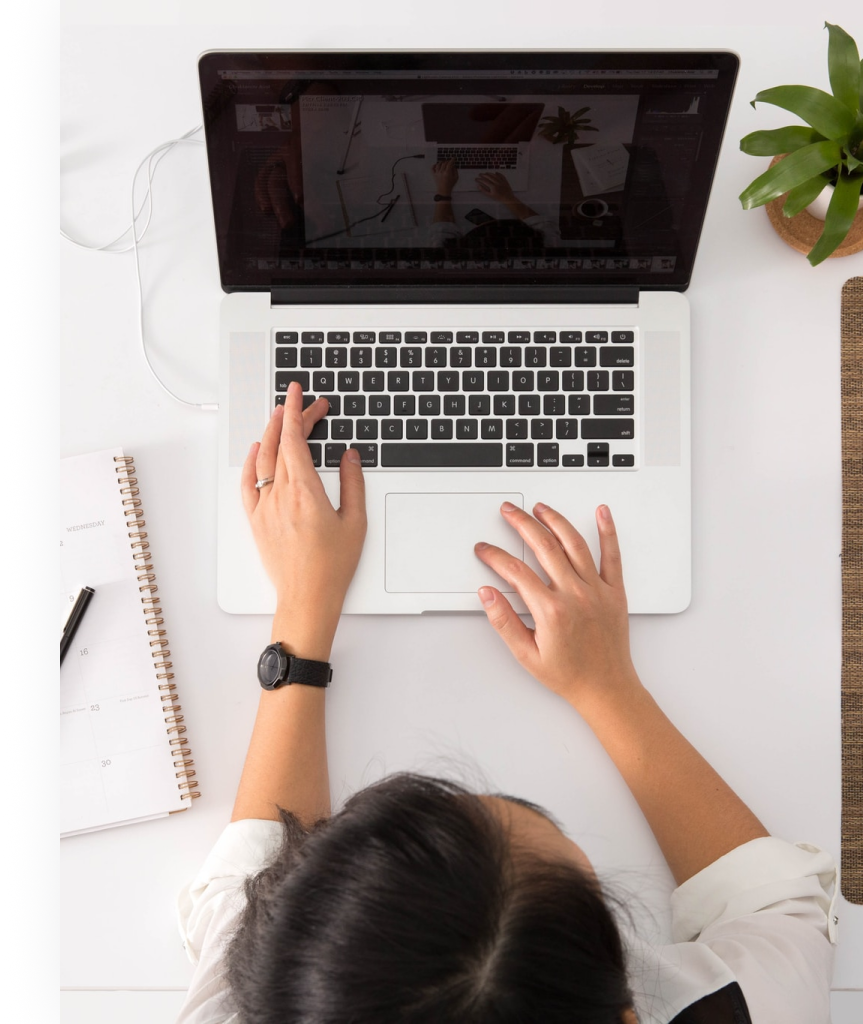
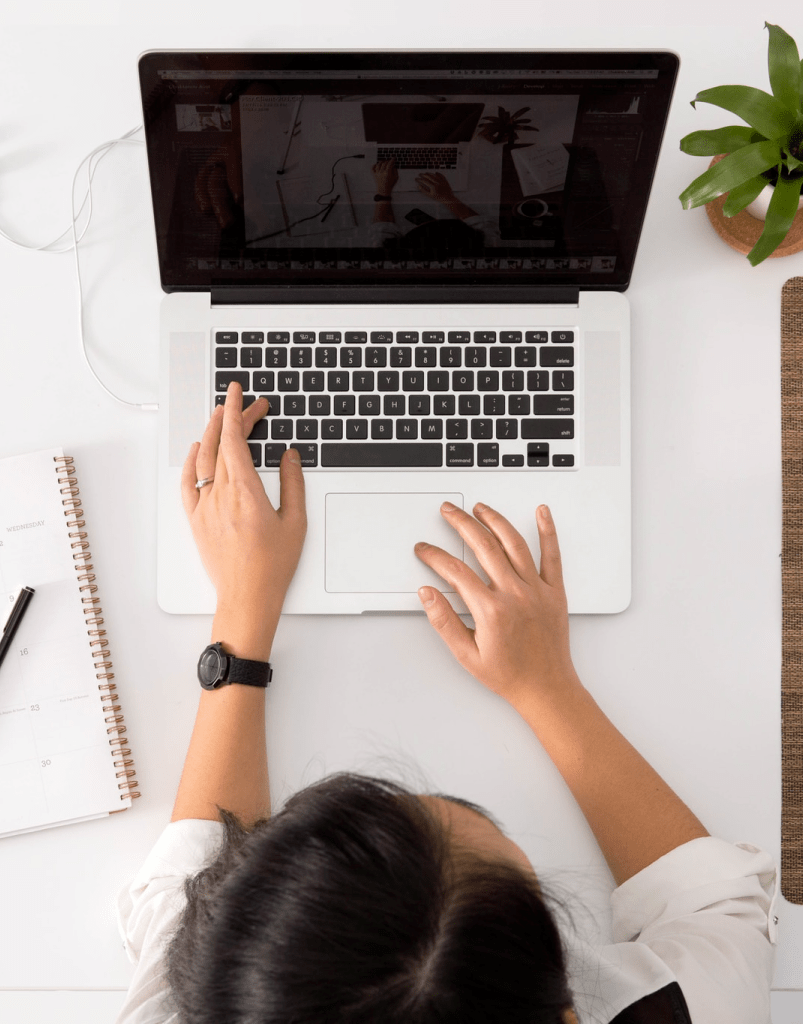
desktop layout done

diff --git a/css/Home.module.css b/css/Home.module.css
@@ -66,17 +66,27 @@
             box-shadow: none;
   }
   .container .main .logoWrapper {
-    padding: 120px 219px 0 218px;
+    margin: 0;
+    position: relative;
+    top: 260px;
   }
   .container .photoWrapper {
-    width: 804px;
+    width: 803px;
     height: 1024px;
     display: block;
+    background: url(../public/photo.png), linear-gradient(148.41deg, rgba(34, 162, 162, 0.76) 0%, rgba(70, 131, 223, 0.526195) 51.16%, rgba(116, 166, 224, 0.5) 70.82%, rgba(116, 224, 193, 0.58) 100%);
+    -webkit-box-shadow: 20px 0px 80px rgba(53, 55, 68, 0.16);
+            box-shadow: 20px 0px 80px rgba(53, 55, 68, 0.16);
+    position: relative;
+  }
+  .container .photoWrapper::after {
+    content: "";
+    width: 803px;
+    height: 1024px;
     background: linear-gradient(114.44deg, #624af2 0%, #50ddc3 100%);
     opacity: 0.5;
     position: absolute;
+    top: 0;
     right: 0;
-    -webkit-box-shadow: 20px 0px 80px rgba(53, 55, 68, 0.16);
-            box-shadow: 20px 0px 80px rgba(53, 55, 68, 0.16);
   }
 }

diff --git a/styles/Home.module.scss b/styles/Home.module.scss
@@ -56,20 +56,30 @@
 			box-shadow: none;
 
 			.logoWrapper {
-				padding: 120px 219px 0 218px;
+				margin: 0;
+				position: relative;
+				top: 260px;
 			}
 		}
 
 		.photoWrapper {
-			width: 804px;
+			width: 803px;
 			height: 1024px;
 			display: block;
-			background: $color-gradient;
-			opacity: 0.5;
-			position: absolute;
-			right: 0;
-
+			background: url(../public/photo.png), linear-gradient(148.41deg, rgba(34, 162, 162, 0.76) 0%, rgba(70, 131, 223, 0.526195) 51.16%, rgba(116, 166, 224, 0.5) 70.82%, rgba(116, 224, 193, 0.58) 100%);
 			box-shadow: 20px 0px 80px rgba(53, 55, 68, 0.16);
+			position: relative;
+
+			&::after {
+				content: "";
+				width: 803px;
+				height: 1024px;
+				background: $color-gradient;
+				opacity: 0.5;
+				position: absolute;
+				top: 0;
+				right: 0;
+			}
 		}
 	}
 }

diff --git a/pages/index.js b/pages/index.js
@@ -2,7 +2,6 @@ import Head from "next/head";
 import Image from "next/image";
 import styles from "../styles/Home.module.scss";
 import logo from "../public/logo.png";
-import photo from "../public/photo.png";
 import LoginForm from "../components/LoginForm";
 
 export default function Home() {
@@ -22,9 +21,7 @@ export default function Home() {
 				</div>
 				<LoginForm />
 			</main>
-			<div className={styles.photoWrapper}>
-				<Image src={photo} alt="Widitrade Photo" layout="responsive" width={803} height={1024} />
-			</div>
+			<div className={styles.photoWrapper}></div>
 		</div>
 	);
 }

diff --git a/css/LoginForm.module.css b/css/LoginForm.module.css
@@ -167,6 +167,7 @@
   font-size: 12px;
   line-height: 18px;
   color: #6e7191;
+  margin-top: 8.5px;
 }
 
 .loginForm button {
@@ -211,7 +212,6 @@
     width: 356px;
     height: 285px;
     margin: 0 auto;
-    position: relative;
-    top: 224px;
+    top: 396px;
   }
 }

diff --git a/components/LoginForm.module.scss b/components/LoginForm.module.scss
@@ -81,6 +81,7 @@
 			font-size: 12px;
 			line-height: 18px;
 			color: $color-label;
+			margin-top: 8.5px;
 		}
 	}
 
@@ -118,7 +119,6 @@
 		width: 356px;
 		height: 285px;
 		margin: 0 auto;
-		position: relative;
-		top: 142px + 82px;
+		top: 478px - 82px;
 	}
 }
